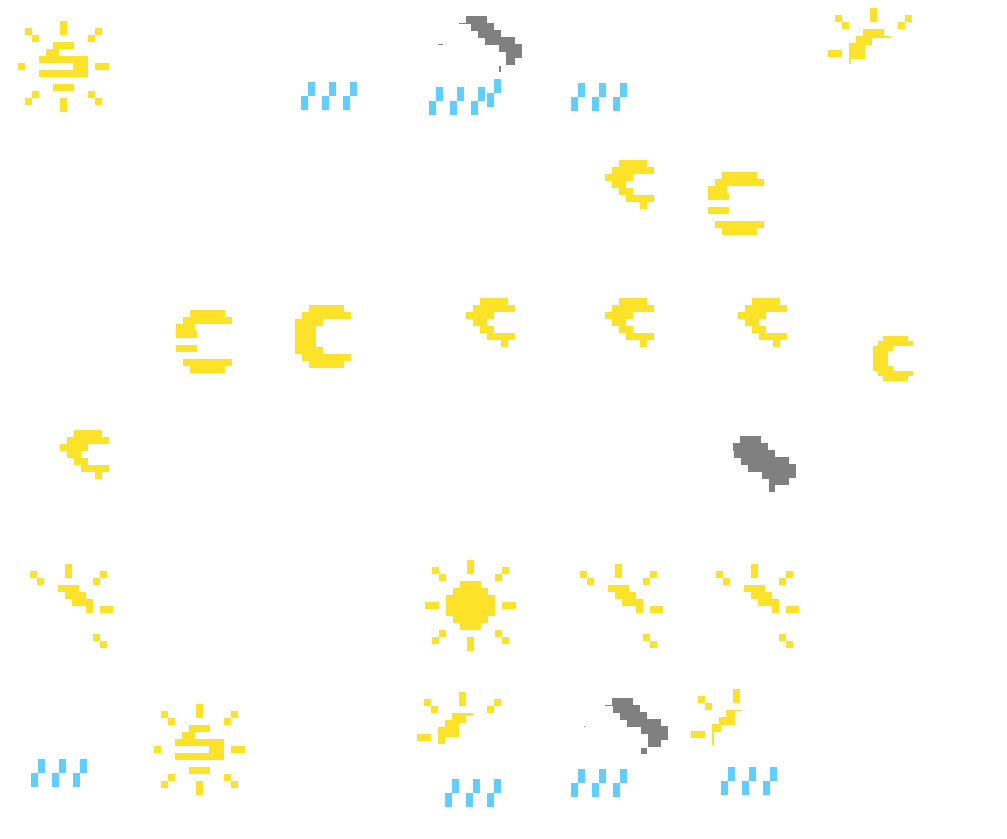
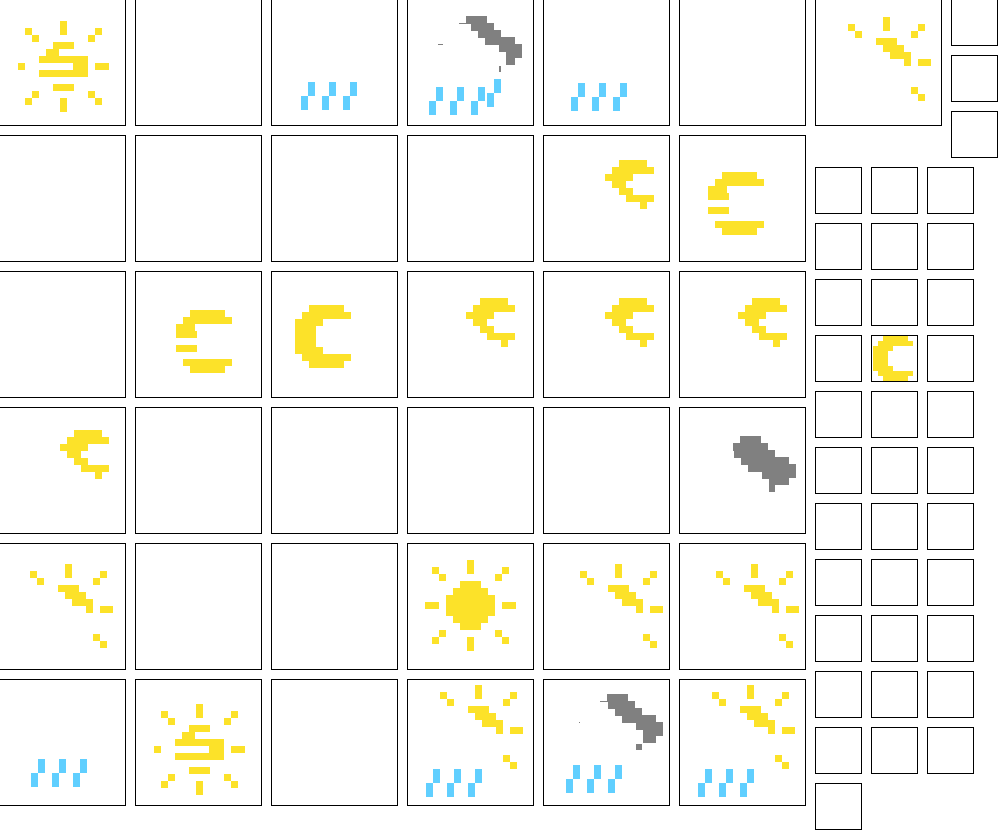
Amélioration du Sprite (ajout de ligne pour voir les limites des sprites)

diff --git a/js/scripts.js b/js/scripts.js
@@ -230,7 +230,7 @@ navigator.geolocation.getCurrentPosition(function(position){
 
 $("#villemenu").change(function() {
   var ville = $("#villemenu").val();
-  console.log(ville);
+//  console.log(ville);
   loadmeteo(ville);
 });
 
